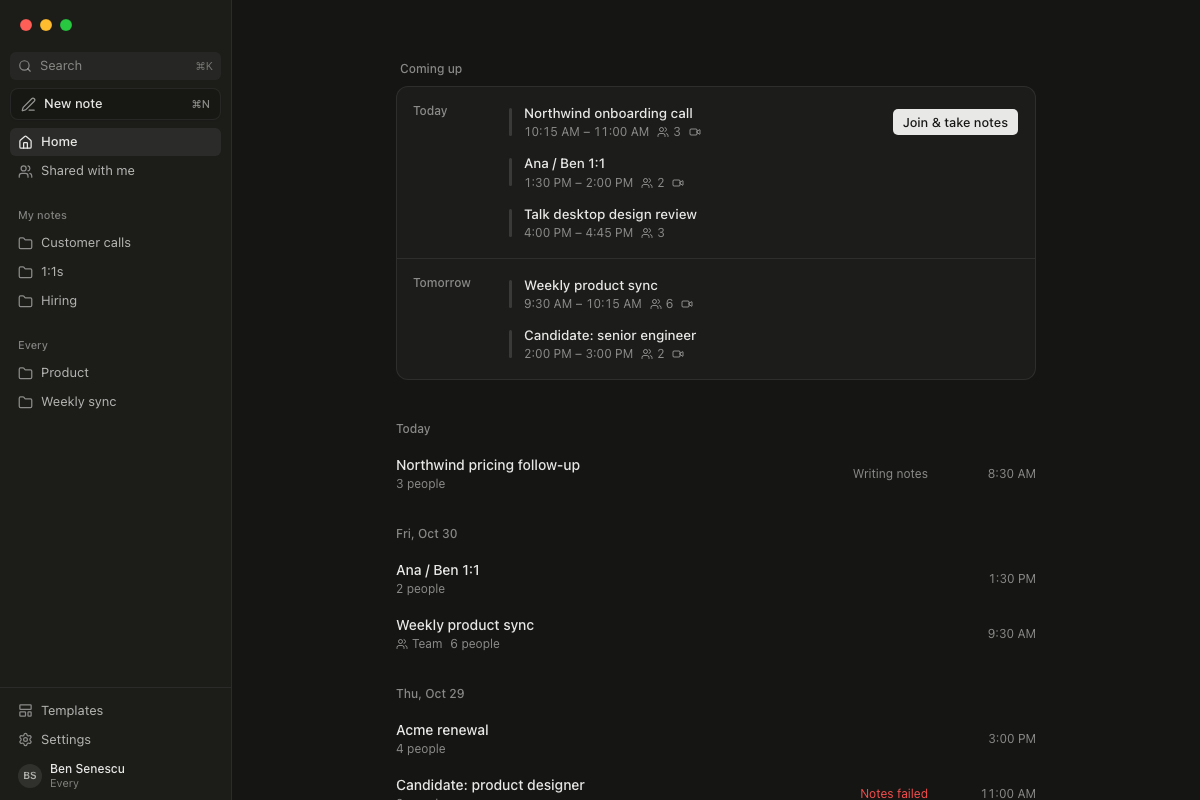
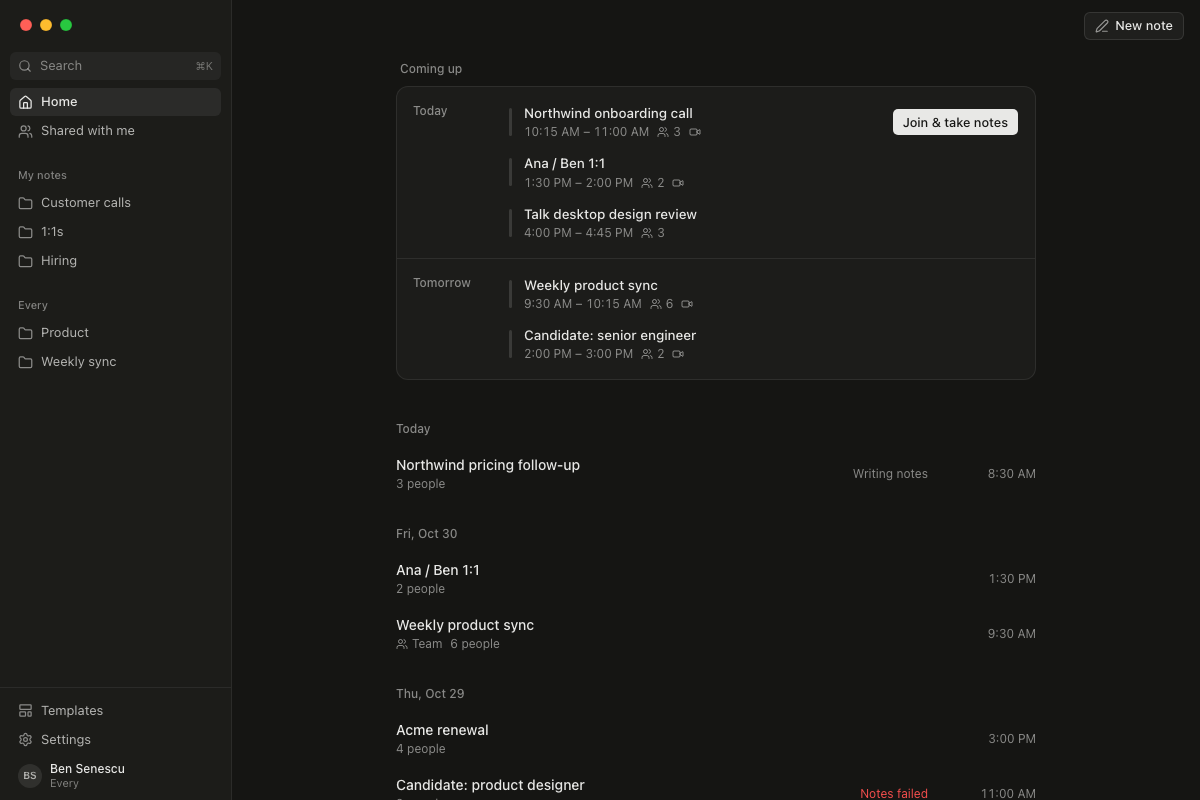
ui: New note moves to the top right of every page (#62)

diff --git a/packages/ui/src/screens/AppFrame.tsx b/packages/ui/src/screens/AppFrame.tsx
@@ -243,29 +243,15 @@ export function Sidebar(props: SidebarProps) {
           </button>
         </div>
       )}
-      <div className="px-2.5 pb-2">
-        {props.recording ? (
+      {props.recording && (
+        <div className="px-2.5 pb-2">
           <RecordingPill
             recording={props.recording}
             onOpen={props.onOpenRecording}
             onStop={props.onStopRecording}
           />
-        ) : (
-          <button
-            type="button"
-            onClick={props.onNewNote}
-            disabled={!!props.newNoteDisabledReason}
-            title={props.newNoteDisabledReason}
-            className="no-drag flex h-8 w-full items-center gap-2 rounded-lg border border-sidebar-border bg-background/70 px-2.5 text-[13px] font-medium shadow-xs transition-colors hover:bg-background focus-visible:outline-none focus-visible:ring-2 focus-visible:ring-ring/50 disabled:pointer-events-none disabled:opacity-50"
-          >
-            <PenLine className="size-[15px] text-foreground/60" />
-            New note
-            <kbd className="ml-auto font-sans text-[11px] text-muted-foreground">
-              ⌘N
-            </kbd>
-          </button>
-        )}
-      </div>
+        </div>
+      )}
       <nav
         aria-label="Main navigation"
         className="flex min-h-0 flex-1 flex-col gap-4 overflow-y-auto px-2.5 pb-3"
@@ -388,11 +374,42 @@ export function AppFrame({
     >
       <Sidebar {...sidebar} />
       <main className="flex min-w-0 flex-1 flex-col bg-background">
-        <TitleBar>{titleBar}</TitleBar>
+        <TitleBar>
+          {titleBar}
+          {/* Top right of every page; while recording, the sidebar's recording pill takes its place. */}
+          {!sidebar.recording && (
+            <NewNoteButton
+              onClick={sidebar.onNewNote}
+              disabledReason={sidebar.newNoteDisabledReason}
+            />
+          )}
+        </TitleBar>
         {banner}
         {children}
       </main>
     </div>
+  );
+}
+
+function NewNoteButton({
+  onClick,
+  disabledReason,
+}: {
+  onClick: () => void;
+  disabledReason?: string;
+}) {
+  return (
+    <Button
+      variant="outline"
+      size="sm"
+      onClick={onClick}
+      disabled={!!disabledReason}
+      title={disabledReason ?? "New note (⌘N)"}
+      className="ml-auto gap-1.5"
+    >
+      <PenLine className="text-foreground/60" />
+      New note
+    </Button>
   );
 }
 
